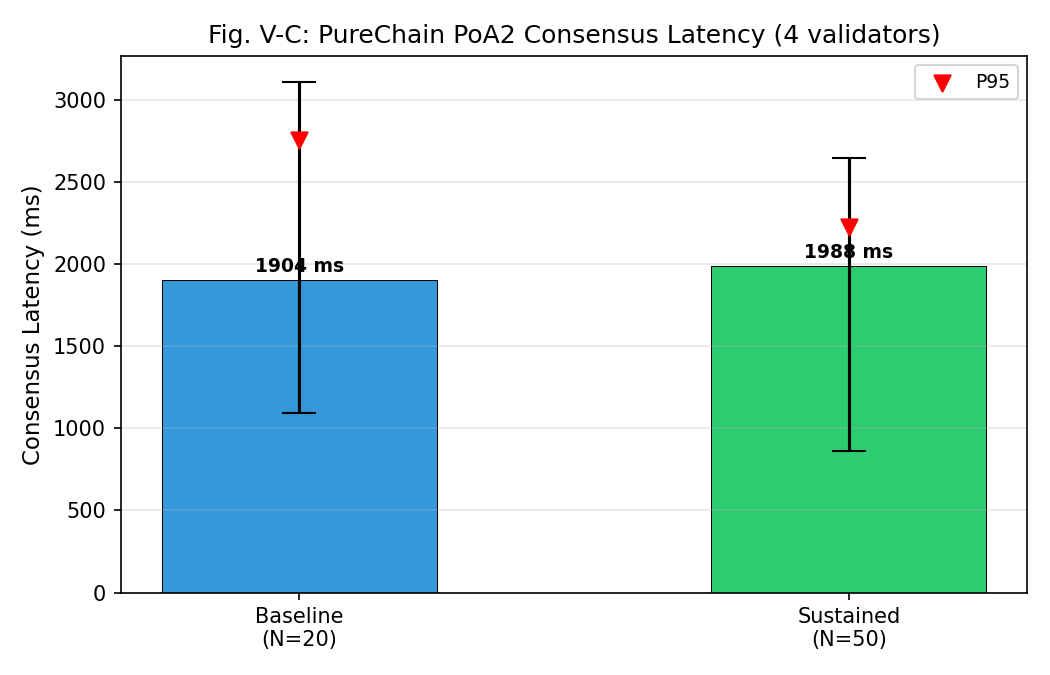
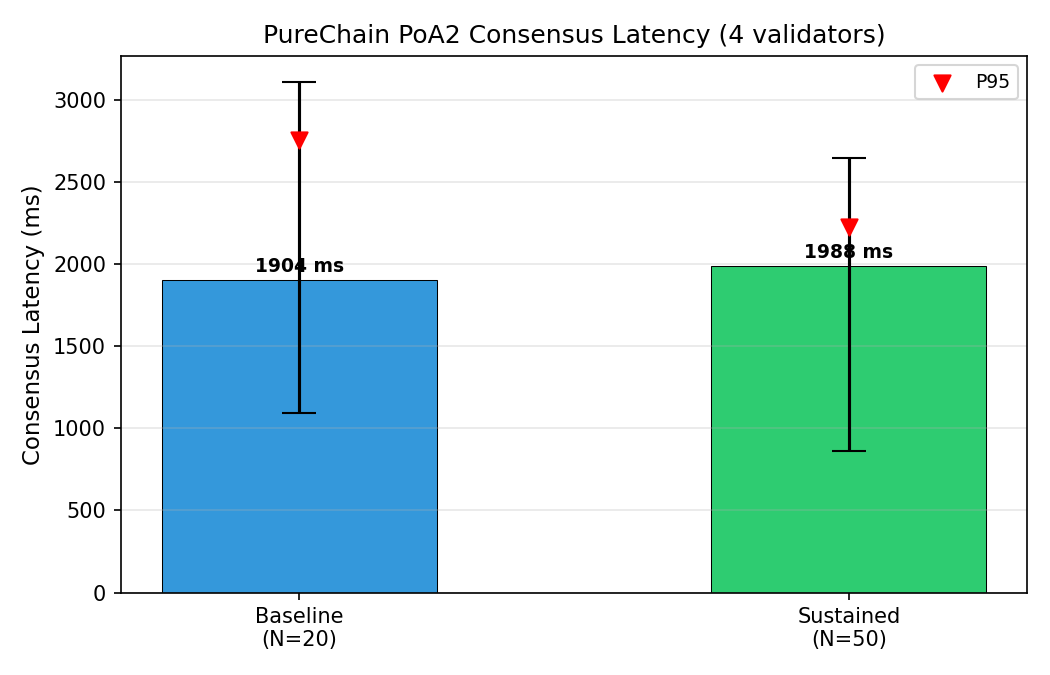
Remove figure number prefixes from plot titles
Titles now read "Edge Deployment Throughput" instead of
"Fig. V-B: Edge Deployment Throughput" etc. — figure numbering
belongs in the LaTeX caption, not burned into the image.

Changed region(s): [[0.1829, 0.0311, 0.9143, 0.0622]]

diff --git a/experiments/generate_all_figures.py b/experiments/generate_all_figures.py
@@ -66,7 +66,7 @@ def fig_vb_edge():
         ax.legend(fontsize=8, title="Batch size")
         ax.grid(True, alpha=0.3, axis="y")
 
-    fig.suptitle("Fig. V-B: Edge Deployment Throughput", fontsize=13, y=1.02)
+    fig.suptitle("Edge Deployment Throughput", fontsize=13, y=1.02)
     fig.tight_layout()
     path = os.path.join(OUT, "fig_vb_edge_throughput.png")
     fig.savefig(path, dpi=150, bbox_inches="tight")
@@ -105,7 +105,7 @@ def fig_vc_consensus():
     ax.set_ylabel("Consensus Latency (ms)", fontsize=11)
     ax.set_xticks(x)
     ax.set_xticklabels(labels, fontsize=10)
-    ax.set_title(f"Fig. V-C: PureChain PoA2 Consensus Latency ({n_val} validators)",
+    ax.set_title(f"PureChain PoA2 Consensus Latency ({n_val} validators)",
                  fontsize=12)
     ax.legend(fontsize=9)
     ax.grid(True, alpha=0.3, axis="y")
@@ -147,7 +147,7 @@ def fig_vd_mqtt():
     ax.set_ylabel("Time (seconds)", fontsize=11)
     ax.set_xticks(x)
     ax.set_xticklabels([f"{i}" for i in jobs], fontsize=9)
-    ax.set_title("Fig. V-D: MQTT Per-Message Latency (Sequential vs Async)",
+    ax.set_title("MQTT Per-Message Latency (Sequential vs Async)",
                  fontsize=12)
 
     # Custom legend
@@ -191,7 +191,7 @@ def fig_ve_scalability():
     ax.set_yscale("log")
     ax.set_xlabel("Batch Size (N compounds)", fontsize=12)
     ax.set_ylabel("Per-Record Anchoring Latency (ms)", fontsize=12)
-    ax.set_title("Fig. V-E: Blockchain Scalability — Individual vs Merkle Batch\n"
+    ax.set_title("Blockchain Scalability: Individual vs Merkle Batch\n"
                  "(Real PureChain Mainnet)", fontsize=12)
     ax.legend(fontsize=10)
     ax.grid(True, alpha=0.3, which="both")
@@ -232,7 +232,7 @@ def fig_vf_onnx():
     ax.set_yticks(range(len(models)))
     ax.set_yticklabels(labels, fontsize=10)
     ax.set_xlabel("Inference Latency per Run (ms)", fontsize=11)
-    ax.set_title("Fig. V-F: ONNX Inference Latency (40 runs, all bitwise-identical)",
+    ax.set_title("ONNX Inference Latency (40 runs, all bitwise-identical)",
                  fontsize=12)
     ax.set_xscale("log")
     ax.grid(True, alpha=0.3, axis="x", which="both")
@@ -279,7 +279,7 @@ def fig_vg_tamper():
             f"Tamper rejected: {d['onchain_tamper_rejected']}",
             fontsize=9, transform=ax.transAxes)
 
-    ax.set_title("Fig. V-G: Tamper Detection — SHA-256 Hash Divergence", fontsize=12,
+    ax.set_title("Tamper Detection: SHA-256 Hash Divergence", fontsize=12,
                  pad=10)
     fig.tight_layout()
     path = os.path.join(OUT, "fig_vg_tamper.png")
@@ -318,7 +318,7 @@ def fig_vh_overhead():
     ax.set_ylabel("Median Wall-Clock Time (s)", fontsize=11)
     ax.set_xticks(x)
     ax.set_xticklabels(labels, fontsize=10)
-    ax.set_title("Fig. V-H: Blockchain Anchoring Overhead", fontsize=12)
+    ax.set_title("Blockchain Anchoring Overhead", fontsize=12)
     ax.legend(fontsize=10)
     ax.grid(True, alpha=0.3, axis="y")
 
